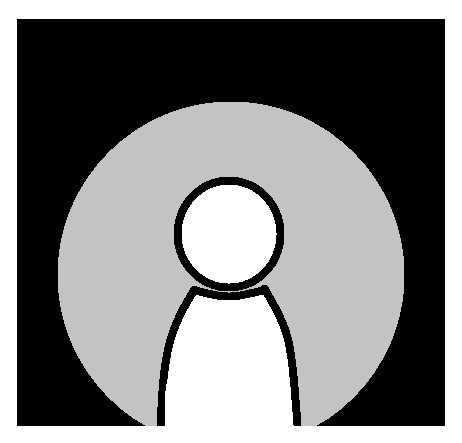
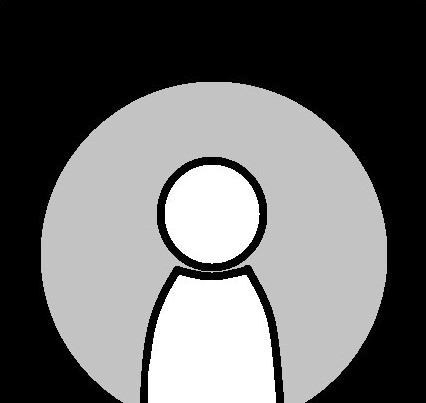
Update edit profile button permissions and default profile pic images

Changed region(s): [[0.0, 0.0, 1.0, 1.0], [0.3662, 0.3871, 0.6408, 0.7742]]

diff --git a/family_plus/website_users/templates/family_profile/family-profile.html b/family_plus/website_users/templates/family_profile/family-profile.html
@@ -6,49 +6,72 @@
 
 
 {% if user.is_authenticated %}
-  <a href="{% url 'edit-family-profile' user.familyprofile.id %}">
-    Edit Profile
-  </a>
+  <!-- Only show the Edit Profile button on user's own family profile. -->
+  {% if user.id == page_user.id %}
+    <a href="{% url 'edit-family-profile' user.familyprofile.id %}">
+      Edit Profile
+    </a>
+  {% endif %}
 
   <div class="card mb-3">
     <div class="row g-0">
       <div class="col-md-2">
         {% if page_user.profile_pic %}
-          <img src="{{ page_user.profile_pic.url }}" class="card-img">
+          <img src="{{ page_user.profile_pic.url }}" class="card-img rounded-circle">
         {% else %}
-          <img src="{% static 'website/images/default_profile_img/default2.jpg' %}" class="card-img" title="Default Profile Picture">
+          <img src="{% static 'website/images/default_profile_img/default1.jpg' %}" class="card-img" title="Default Profile Picture">
         {% endif %} 
       </div>
       <div class="col-md-10">
         <div class="card-body">
+          <br>
           <h1 class="card-title">
             {{ page_user.user.last_name }} Family
           </h1>
+          <br><br>
           <p class="card-text">
             <h3>Family bio</h3>
             {{ page_user.family_bio }}
-            <br>
+            <br><br>
+
             <h3>Contact Info</h3>
-            {{ page_user.contact_info }}
-            <br>
-            <h3>Hobbies & Activities</h3>
-            {{ page_user.hobbies }}
-            <br>
-            <h3>Interests</h3>
-            {{ page_user.interests }}
-            <br>
-            <h3>Locations</h3>
-            {{ page_user.locations }}
-            <br>
-            <h3>Availability</h3>
-            {{ page_user.schedule }}
-            <br>
-            <h3>Languages</h3>
-            {{ page_user.languages }}
-            <br>
+            {% if page_user.contact_info %}
+              {{ page_user.contact_info }}
+            {% else %}
+              The {{ page_user.user.last_name }} Family has not filled out this info.
+            {% endif %}            
+            <br><br>
+
+            <!-- Only display these fields if filled out -->
+            {% if page_user.hobbies %}
+              <h3>Hobbies & Activities</h3>
+              {{ page_user.hobbies }}<br><br>
+            {% endif %}
+            
+            {% if page_user.interests %}
+              <h3>Interests</h3>
+              {{ page_user.interests }}<br><br>
+            {% endif %}
+            
+            {% if page_user.locations %}
+              <h3>Locations</h3>
+              {{ page_user.locations }}<br><br>
+            {% endif %}
+            
+            {% if page_user.schedule %}
+              <h3>Availability</h3>
+              {{ page_user.schedule }}<br><br>
+            {% endif %}
+            
+            {% if page_user.languages %}
+              <h3>Languages</h3>
+              {{ page_user.languages }}<br><br>
+            {% endif %}
+            
+
             <h3>Family Members</h3>
             {{ page_user.family_members }}
-            <br>
+            <br><br>
           </p>
         </div>
       </div>
